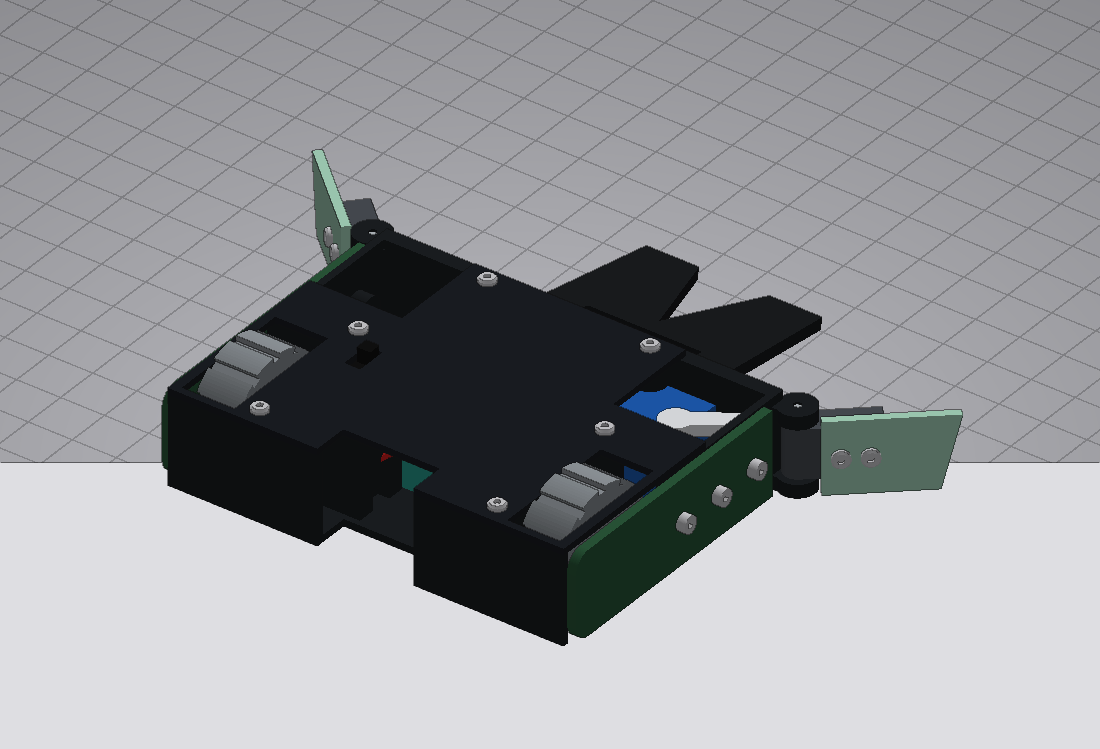
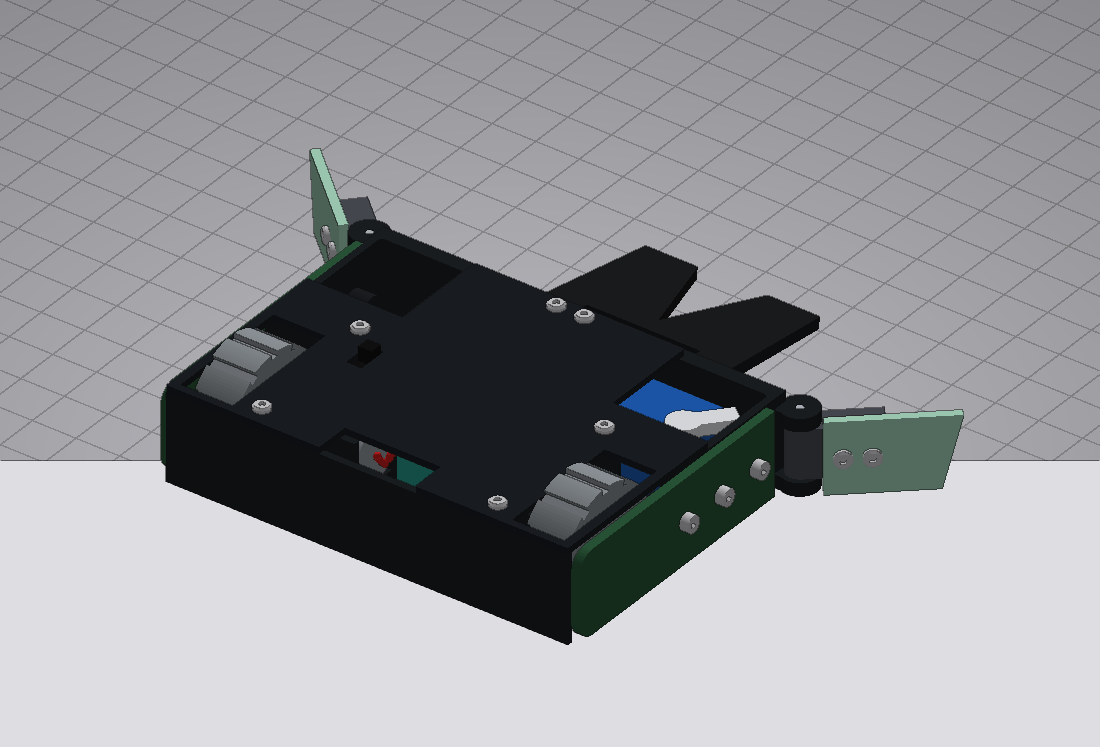
feat(expandabot_classic): pass all 52 verify checks, add lifted render and reference image

diff --git a/robots/expandabot_classic/make_spec.py b/robots/expandabot_classic/make_spec.py
@@ -42,6 +42,7 @@ cb_z = P.WEDGE_Z0 + cb_dist * math.sin(math.radians(wedge_eff_ang))
 parts = [
     {"id": "tub", "kind": "structure", "material": "pla", "process": "fdm", "print_orientation": "+z",
      "color": "#1c1f22", "shape": model("tub"), "at": [0.0, 0.0, 0.0], "rot": [0.0, 0.0, 0.0], "rotates_with": "fixed",
+     "sharp_corners_ok": "Printed PLA tub internal screw bosses and lid pads meet the tub walls at 90-degree junctions; 1.6 mm wall thickness and 3.2 mm boss radii provide ample local stiffness.",
      "label": "black 3D-printed chassis tub with front bulkhead, rear wheel cutouts, and corner wing clevises"},
     {"id": "top_panel", "kind": "armor", "material": "cf_plate", "process": "laser",
      "color": "#1b1e23", "shape": model("top_panel"), "at": r3(PP.top_panel_at()), "rot": [0.0, 0.0, 0.0], "rotates_with": "fixed",
@@ -107,7 +108,7 @@ parts += [
      "exposed": True, "exposed_reason": "Servo sits in the open front-left linkage bay for horn access and visual inspection, matching the classic Expandabot layout.",
      "color": "#1e5cb3", "at": r3([P.SERVO_X, P.SERVO_Y, P.SERVO_Z]), "rot": [90.0, 0.0, 0.0], "rotates_with": "fixed",
      "label": "blue SG90-class servo under the CF deck"},
-    {"id": "battery", "kind": "battery", "catalog": P.BATTERY_ID, "retained": "strap",
+    {"id": "battery", "kind": "battery", "catalog": P.BATTERY_ID, "retained": "clamp",
      "at": r3([P.BAT_X, P.BAT_Y, P.BAT_Z]), "rot": [0.0, 0.0, 0.0], "rotates_with": "fixed",
      "label": "2S 180 mAh LiPo pack"},
     {"id": "esc", "kind": "esc", "catalog": P.ESC_ID, "retained": "tape",
@@ -201,8 +202,8 @@ connections += [
      "reason": "CS07 servo case seats snugly in the front-left PLA bay between the floor, bulkhead, and CF top deck."},
     {"a": "horn", "b": "servo", "method": "shaft", "interference_mm": 0.05,
      "reason": "Printed PLA servo horn keys onto the servo output spline to transmit actuation torque to the expanding wing linkage."},
-    {"a": "battery", "b": "tub", "method": "strap",
-     "reason": "2S 180 mAh LiPo pack seats inside the central PLA battery cradle and is strapped down against the tub floor."},
+    {"a": "battery", "b": "tub", "method": "velcro",
+     "reason": "2S 180 mAh LiPo pack seats inside the central PLA battery cradle and is strapped down with a velcro wrap against the tub floor."},
     {"a": "esc", "b": "tub", "method": "tape",
      "reason": "Lightweight Malenki Nano ESC/Rx is secured to the flat PLA bay floor with double-sided foam tape under the CF top tongue."},
     {"a": "switch", "b": "tub", "method": "press_fit",

diff --git a/robots/expandabot_classic/src/expandabot_classic/parts.py b/robots/expandabot_classic/src/expandabot_classic/parts.py
@@ -78,25 +78,29 @@ def tub():
     # Closed-top N10 motor pockets on +X and -X
     for left in (True, False):
         s = 1 if left else -1
-        # Carve motor pocket (open inboard for motor slide-out, closed top/front/rear/outboard)
+        # Carve motor pocket (U-channel open on +Z for top-down drop-in, covered by top_panel)
         bx0 = s * MOTOR_INNER_X
         bx1 = s * (WHEEL_X - WHEEL_W / 2 - RUN_CLEAR)
-        m_blk = bd.Pos((bx0 + bx1) / 2, WHEEL_Y, (TUB_Z0 + TUB_Z1) / 2) * \
-            bd.Box(abs(bx1 - bx0), 2 * (MOTOR_ENV_Y + WALL), TUB_H)
+        m_blk_h = AXLE_Z - TUB_Z0 + MOTOR_ENV_Z
+        m_blk = bd.Pos((bx0 + bx1) / 2, WHEEL_Y, TUB_Z0 + m_blk_h / 2) * \
+            bd.Box(abs(bx1 - bx0), 2 * (MOTOR_ENV_Y + WALL), m_blk_h)
         body = body + m_blk
         mx0 = s * (MOTOR_INNER_X - MOTOR_FIT)
         mx1 = s * (MOTOR_ROOT_X - MOTOR_FIT)
-        m_cav = bd.Pos((mx0 + mx1) / 2, WHEEL_Y, AXLE_Z) * \
-            bd.Box(abs(mx1 - mx0), 2 * (MOTOR_ENV_Y + MOTOR_FIT), 2 * (MOTOR_ENV_Z + MOTOR_FIT))
+        m_cav = bd.Pos((mx0 + mx1) / 2, WHEEL_Y, AXLE_Z + MOTOR_ENV_Z / 2) * \
+            bd.Box(abs(mx1 - mx0), 2 * (MOTOR_ENV_Y + MOTOR_FIT), 3 * MOTOR_ENV_Z)
         body = body - m_cav
         wire_slot = bd.Pos(s * (MOTOR_INNER_X - WALL / 2), WHEEL_Y, TUB_Z0 + WALL + WIRE_SLOT_H / 2) * \
             bd.Box(WALL + TUB_Z0, WIRE_SLOT_W, WIRE_SLOT_H)
         body = body - wire_slot
-        shaft_bore = bd.Pos(s * (WHEEL_X - WHEEL_W / 2 - RUN_CLEAR), WHEEL_Y, AXLE_Z) * x_cyl(MOTOR_SHAFT["dia"] / 2 + RUN_CLEAR / 2, WIRE_SLOT_H)
-        body = body - shaft_bore
+        shaft_r = MOTOR_SHAFT["dia"] / 2 + RUN_CLEAR / 2
+        shaft_bore = bd.Pos(s * (WHEEL_X - WHEEL_W / 2 - RUN_CLEAR), WHEEL_Y, AXLE_Z) * x_cyl(shaft_r, WIRE_SLOT_H)
+        shaft_slot = bd.Pos(s * (WHEEL_X - WHEEL_W / 2 - RUN_CLEAR), WHEEL_Y, (AXLE_Z + TUB_Z1) / 2) * \
+            bd.Box(WIRE_SLOT_H, 2 * shaft_r - CLEAR, TUB_Z1 - AXLE_Z + EPS)
+        body = body - shaft_bore - shaft_slot
 
     # Internal bay divider wall on -X (separates ESC/battery from open front-right bay)
-    div_y0 = TOP_BAY_Y0 - SIDE_BOSS_L
+    div_y0 = TOP_BAY_Y0 - CLEVIS_Z_GAP
     div_r = bd.Pos(-TOP_TONGUE_HALF_X - WALL / 2, (div_y0 + BODY_Y1 - WALL) / 2, TUB_Z0 + TUB_H / 2) * \
         bd.Box(WALL, BODY_Y1 - WALL - div_y0, TUB_H)
     body = body + div_r

diff --git a/robots/expandabot_classic/src/expandabot_classic/params.py b/robots/expandabot_classic/src/expandabot_classic/params.py
@@ -122,7 +122,7 @@ TOP_WHEEL_SLOT_Y1 = WHEEL_Y + WHEEL_D / 2 + RUN_CLEAR
 TOP_SCREWS_XY = (
     (-27.0, -40.0), (27.0, -40.0),
     (-28.0, -8.0), (28.0, -8.0),
-    (-3.2, 19.5), (3.2, 19.5),
+    (-3.6, 19.5), (3.6, 19.5),
 )
 
 # --- internal electronics
